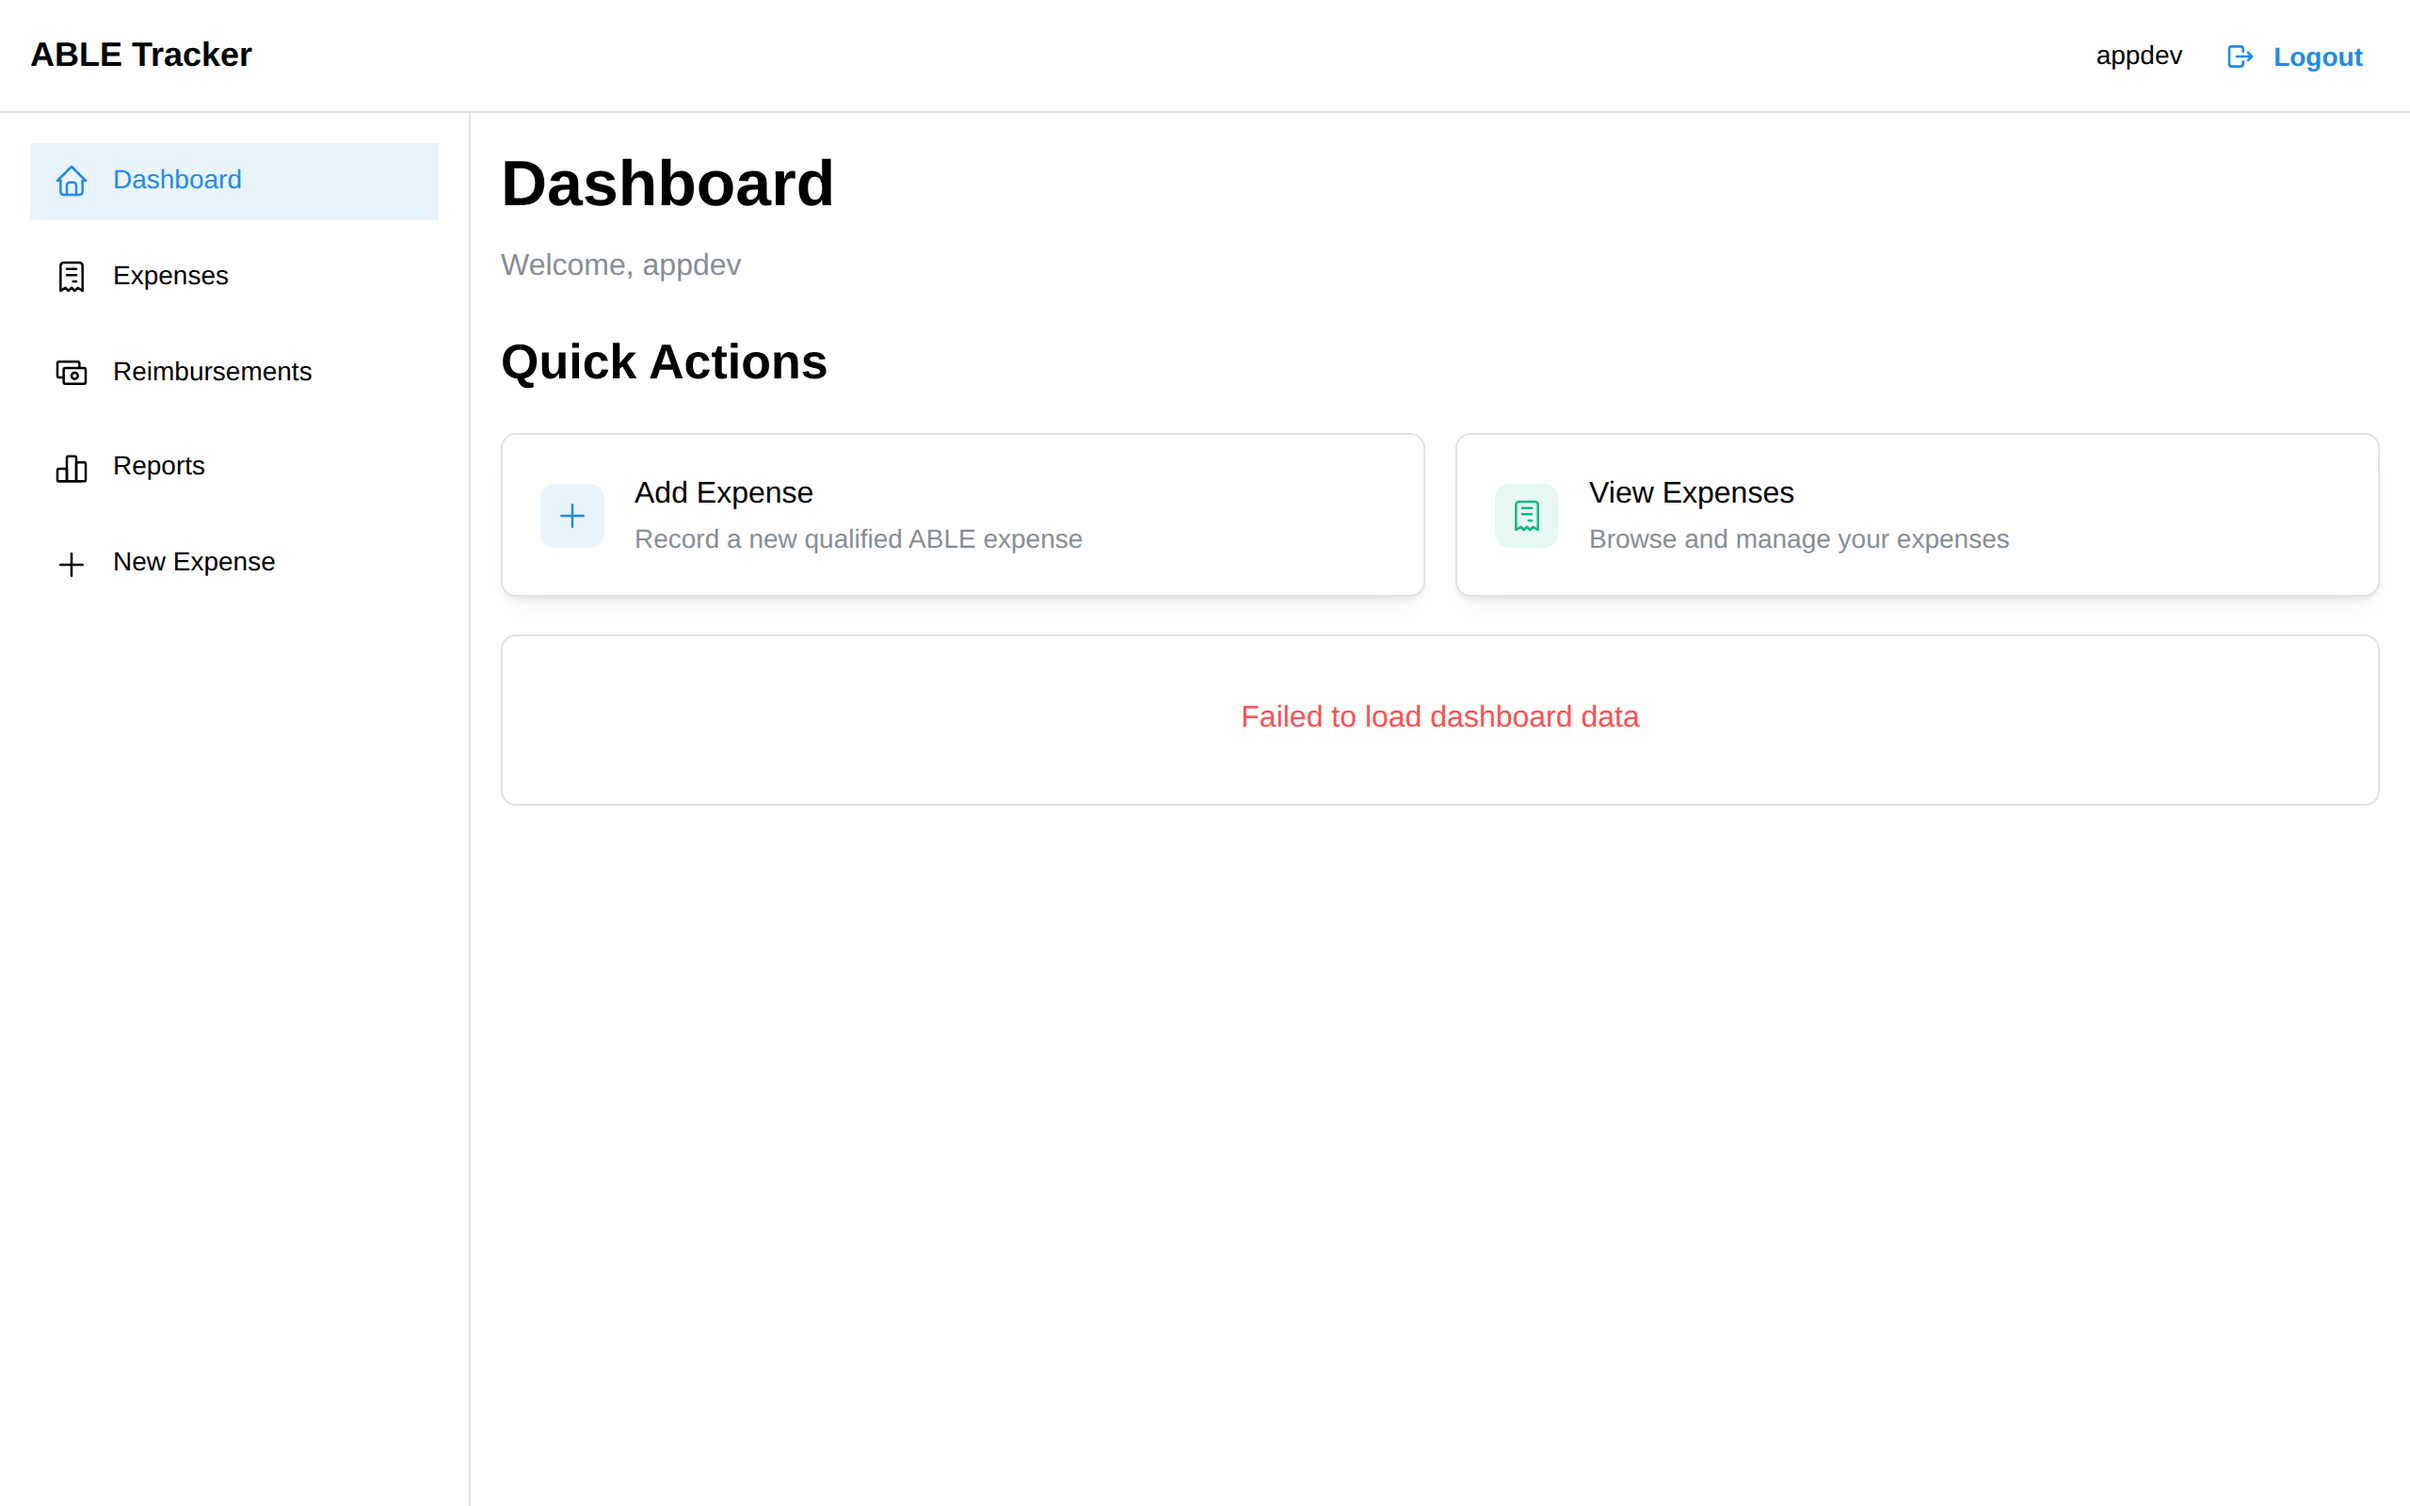
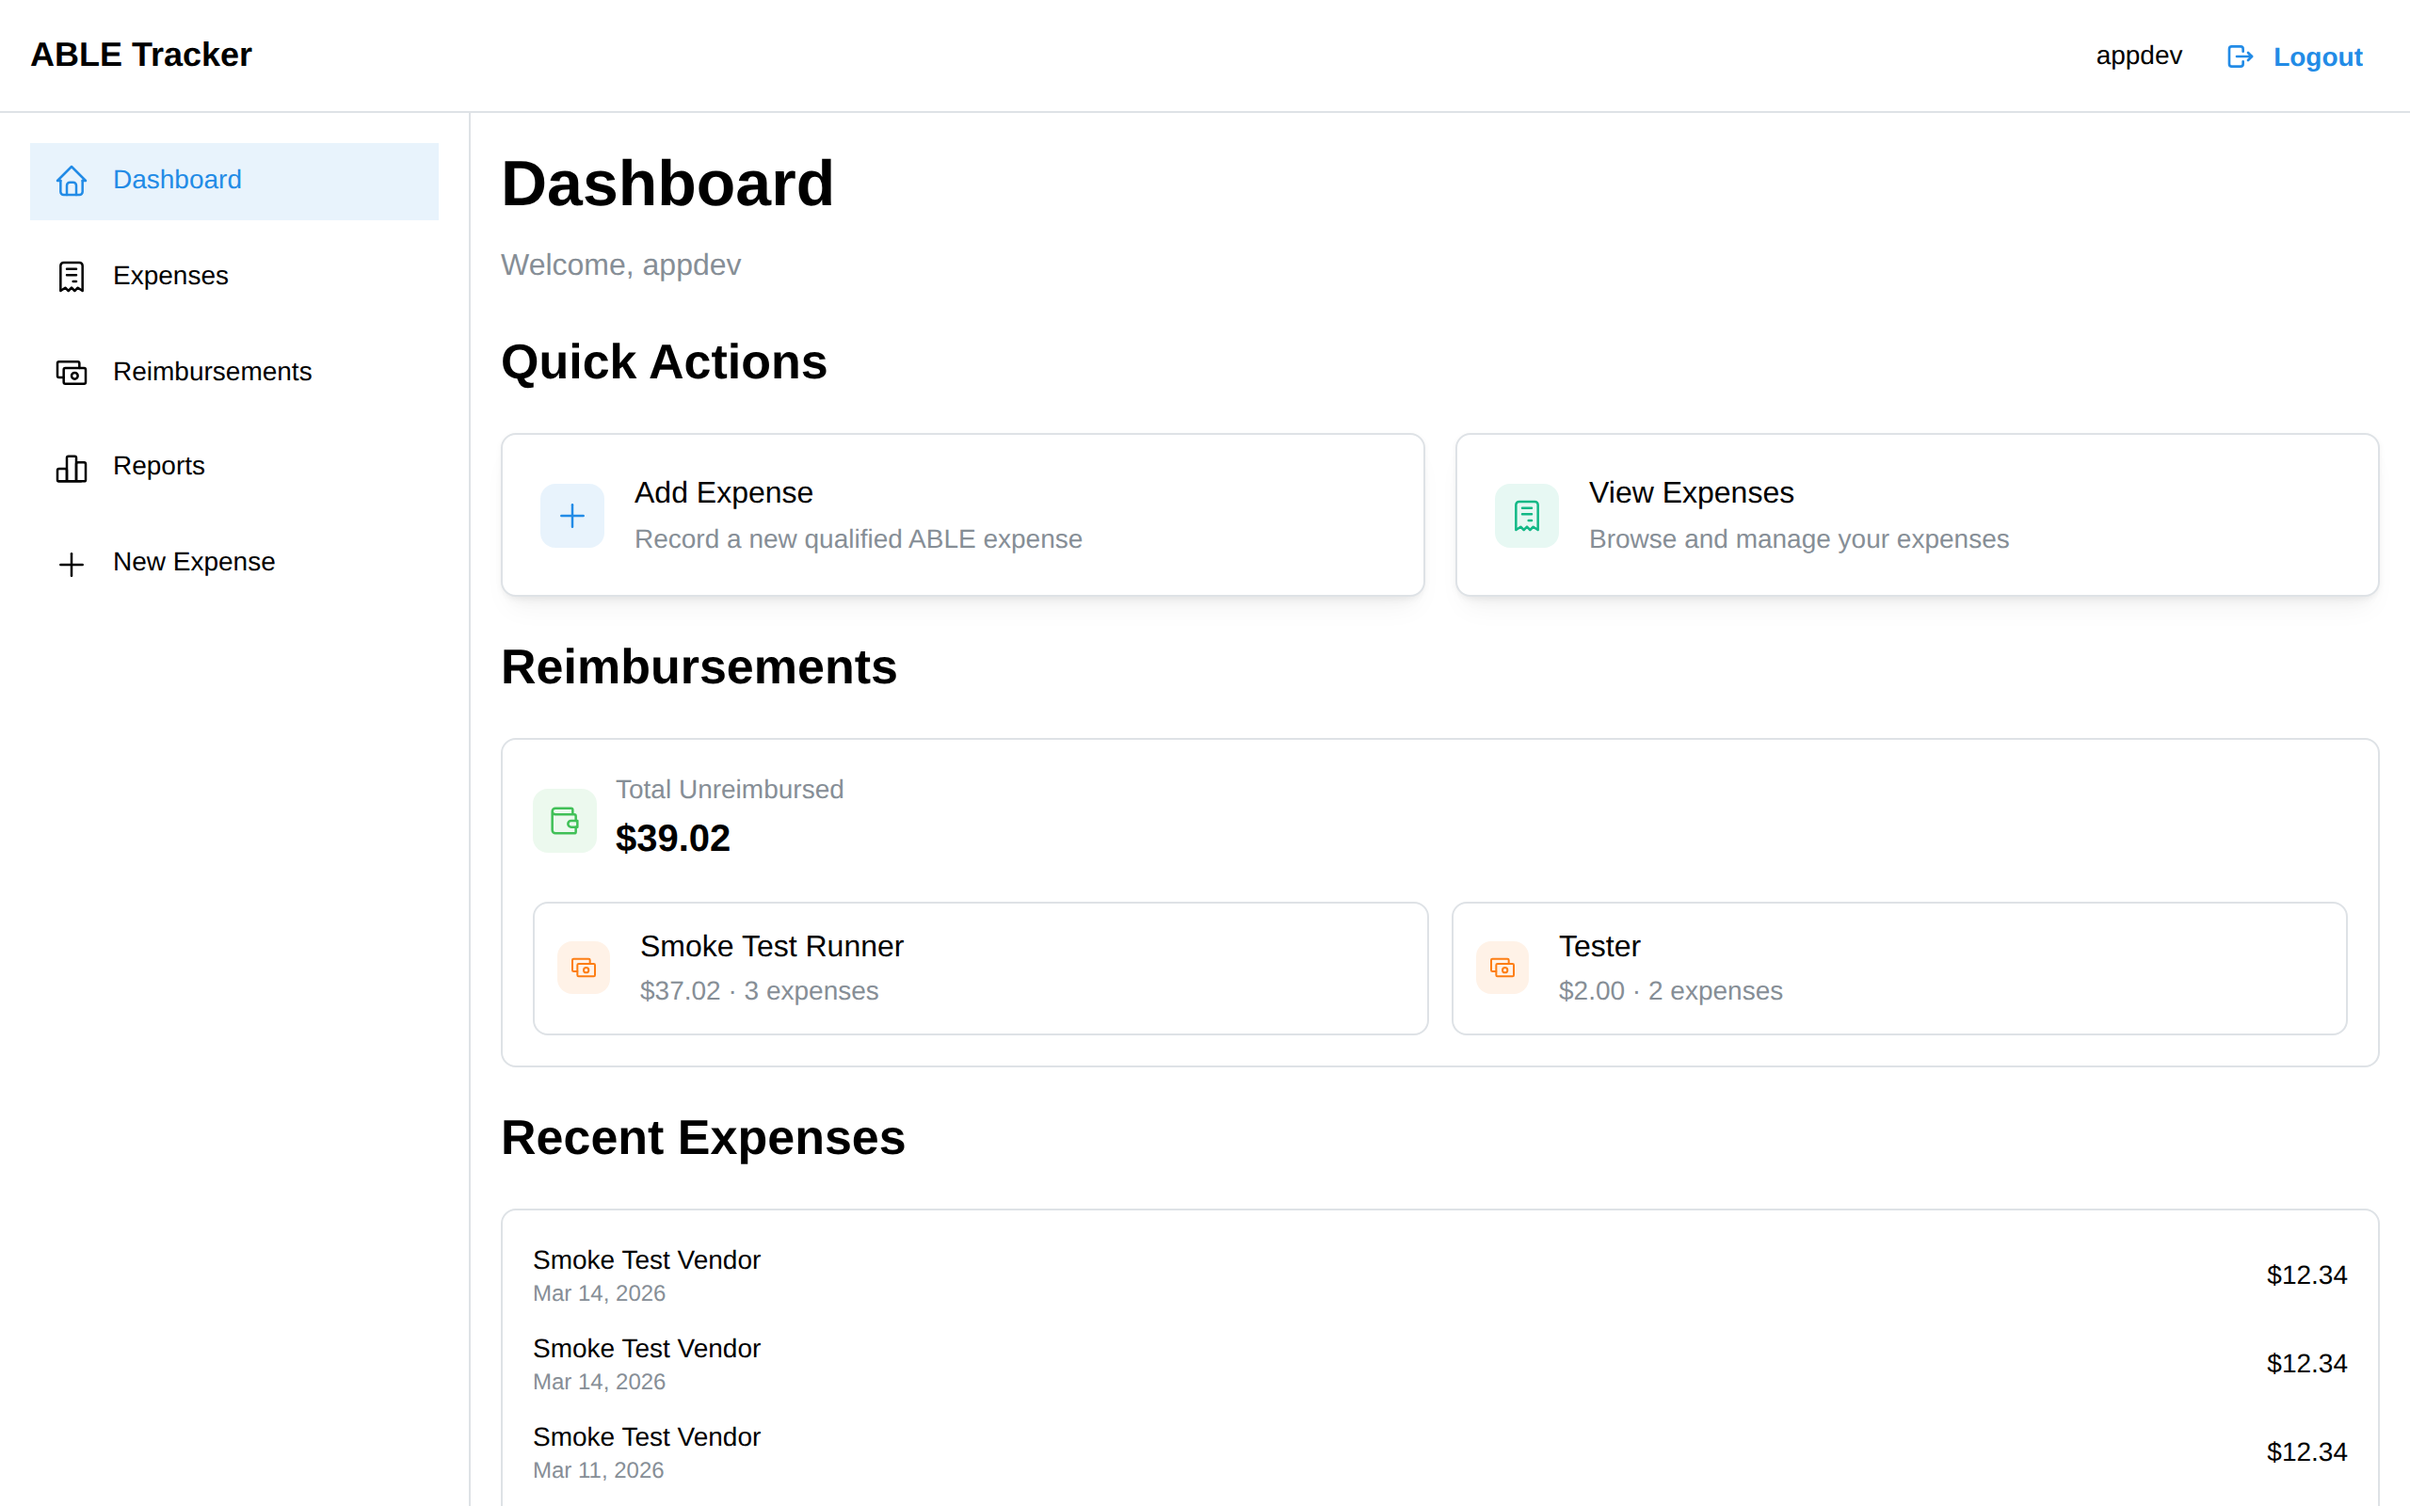
docs: Sprint 9 demo refresh — fix dashboard screenshot, update skill
- Fix capture script to wait for dashboard data before screenshotting
  (was capturing loading skeletons instead of real data)
- Update product-demo.md: remove resolved known limitation (dashboard
  reimbursements endpoint), add Promise.allSettled resilience docs,
  update ephemeral env section with CI screenshots and persistence
- Update build-demo-script skill to prefer CI artifacts over local
  capture, update screenshot inventory to Sprint 9
- Refresh all screenshots against live deployed environment

diff --git a/.claude/skills/build-demo-script/SKILL.md b/.claude/skills/build-demo-script/SKILL.md
@@ -13,9 +13,9 @@ Refresh the product demo script (`docs/demos/product-demo.md`) with fresh screen
 
 ## Prerequisites
 
-- Playwright must be installed (`pnpm exec playwright install chromium` if needed)
+- For CI artifact download: `gh` CLI authenticated (preferred method)
+- For live capture: Playwright installed + `DEMO_EMAIL` and `DEMO_PASSWORD` environment variables set
 - For local capture: the Vite dev server will be started automatically by the capture script
-- For live capture: `DEMO_EMAIL` and `DEMO_PASSWORD` environment variables must be set
 
 ## Procedure
 
@@ -23,25 +23,38 @@ This skill coordinates three agents working sequentially:
 
 ### Phase 1: QA Engineer — Capture Screenshots
 
-The QA Engineer captures screenshots of all implemented features using Playwright.
+The QA Engineer obtains screenshots of all implemented features, preferring CI artifacts over local capture.
 
 **Steps:**
 
-1. Determine which capture script to use:
-   - **Local dev** (default, no credentials needed): `node docs/demos/capture-local-screenshots.mjs`
-   - **Live deployed environment** (requires credentials): `DEMO_EMAIL=<email> DEMO_PASSWORD=<pass> node docs/demos/capture-screenshots.mjs`
-2. Run the selected capture script from the repository root.
-3. Verify screenshots were written to `docs/demos/screenshots/`.
-4. Review each screenshot file — confirm they are non-empty and show the expected UI state.
-5. If any screenshots fail to capture, note which ones failed and why (e.g., selector not found, timeout).
+1. **Try CI artifacts first** (preferred — most accurate, captured against real ephemeral infrastructure):
+   a. Find the most recent successful `ephemeral-e2e` workflow run that produced screenshots:
+      ```bash
+      gh run list --workflow=ephemeral-e2e.yml --status=success --limit=5 --json databaseId,headBranch,conclusion,createdAt
+      ```
+   b. Download the `demo-screenshots-pr-*` artifact from that run:
+      ```bash
+      gh run download <run-id> --name 'demo-screenshots-pr-<number>' --dir docs/demos/screenshots/
+      ```
+   c. If the artifact downloads successfully, verify the files are present and non-empty, then skip to Phase 2.
 
-**Screenshot inventory (current as of Sprint 3):**
+2. **Fall back to live capture** (if no CI artifact is available or artifacts are stale):
+   - **Live deployed environment** (requires credentials): `DEMO_EMAIL=<email> DEMO_PASSWORD=<pass> node docs/demos/capture-screenshots.mjs`
+   - **Local dev** (no credentials needed, less accurate): `node docs/demos/capture-local-screenshots.mjs`
+   - Ensure Playwright is installed: `pnpm exec playwright install chromium`
+
+3. Run the selected capture method from the repository root.
+4. Verify screenshots were written to `docs/demos/screenshots/`.
+5. Review each screenshot file — confirm they are non-empty and show the expected UI state.
+6. If any screenshots fail to capture, note which ones failed and why (e.g., selector not found, timeout, no artifact).
+
+**Screenshot inventory (current as of Sprint 9):**
 
 | File | Feature |
 |------|---------|
 | `01-login-page.png` | Login form |
 | `02-auth-redirect.png` | Auth guard redirect |
-| `03-dashboard.png` | Dashboard with quick actions |
+| `03-dashboard.png` | Dashboard with reimbursements and recent expenses |
 | `04-navigation.png` | Sidebar navigation |
 | `05-expense-form.png` | Add Expense form (empty) |
 | `06-ai-categorization.png` | AI Suggest Category with filled fields |
@@ -49,6 +62,10 @@ The QA Engineer captures screenshots of all implemented features using Playwrigh
 | `08-expense-list-empty.png` | Expense list empty state |
 | `09-mobile-nav.png` | Mobile hamburger menu |
 | `10-logout.png` | Logout button hover state |
+| `11-reimbursements.png` | Reimbursements page with bulk selection |
+| `12-reports.png` | Reports page with filters and summaries |
+| `13-expense-filter.png` | Expense list with category/date filters |
+| `14-bulk-reimburse.png` | Bulk reimbursement selection state |
 
 When new features are implemented, add new screenshot entries to the capture script and this inventory.
 

diff --git a/docs/demos/product-demo.md b/docs/demos/product-demo.md
@@ -1,6 +1,6 @@
 # ABLE Tracker -- Product Demo
 
-> Last updated: Sprint 8, 2026-03-11
+> Last updated: Sprint 9, 2026-03-14
 
 ## What is ABLE Tracker?
 
@@ -98,6 +98,7 @@ The Dashboard is the landing page after login. It greets the user by name, provi
 - Each quick-action card is a clickable link that navigates to the corresponding page.
 - Reimbursement summaries are fetched from the `/dashboard/reimbursements` API endpoint.
 - Recent expenses are fetched from `/expenses` and trimmed to the 5 most recent.
+- The Dashboard uses `Promise.allSettled` so that a failure in one API call (summaries or expenses) does not take down the entire page. If only one call fails, the other section still displays data. An error banner only appears when both calls fail.
 - If no expenses exist, an empty state is shown with a link to add the first expense.
 
 **Verification:**
@@ -108,6 +109,8 @@ The Dashboard is the landing page after login. It greets the user by name, provi
 - [ ] Reimbursements section shows total unreimbursed amount
 - [ ] Per-person reimbursement cards show name, amount, and expense count
 - [ ] Recent Expenses section shows up to 5 expenses with vendor, date, and amount
+- [ ] If one API call fails (summaries or expenses), the other section still displays
+- [ ] Error banner only appears when both API calls fail
 - [ ] Empty state shows a friendly message with a link to add an expense
 
 ---
@@ -571,10 +574,6 @@ Clicking a table row in the expense list logs the expense ID to the console but 
 
 The app is responsive (sidebar collapses on narrow screens), but has not been optimized specifically for mobile touch targets, swipe gestures, or native-app-like interactions.
 
-### Dashboard Reimbursements Endpoint
-
-The `/dashboard/reimbursements` endpoint returns 501 (stub). The Dashboard shows "Failed to load dashboard data" for the reimbursements section. Per-person reimbursement data is available on the Reimbursements and Reports pages instead.
-
 ---
 
 ## How to Run This Demo
@@ -615,5 +614,6 @@ Every pull request automatically deploys an isolated AWS environment with its ow
 2. Frontend is built with the ephemeral environment's configuration and deployed to S3
 3. Test data is seeded (test user + sample expenses)
 4. Playwright E2E tests run against the ephemeral environment
-5. A PR comment is posted with links to the frontend and API
-6. On PR close, ephemeral stacks are automatically destroyed
+5. Demo screenshots are captured automatically after tests pass (uploaded as build artifacts)
+6. A PR comment is posted with links to the frontend and API
+7. On PR close, ephemeral stacks are automatically destroyed (unless only Playwright tests failed, in which case the environment is preserved for debugging)
